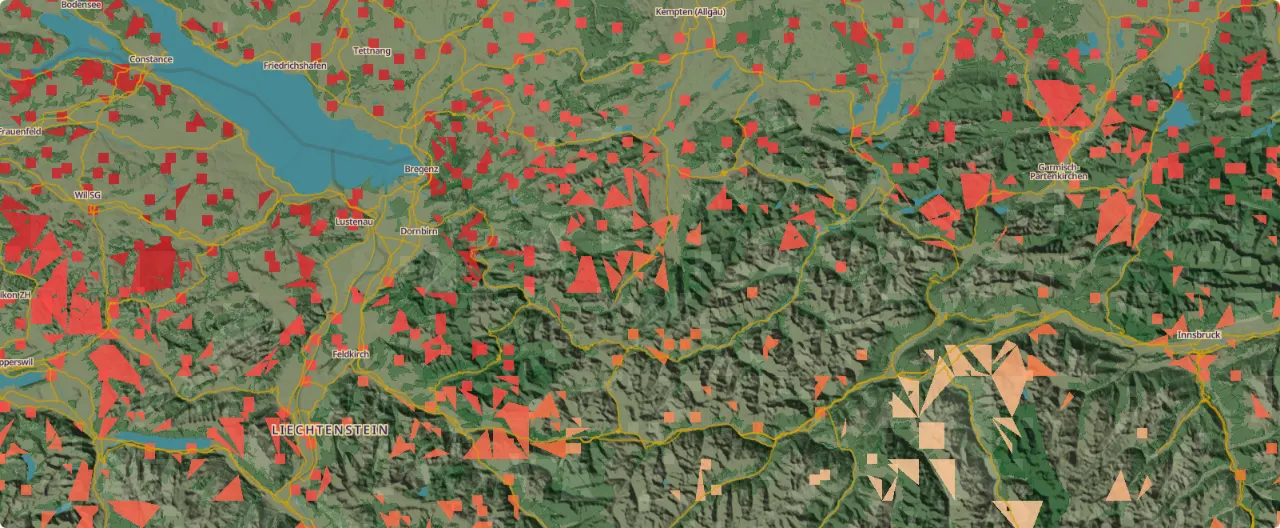
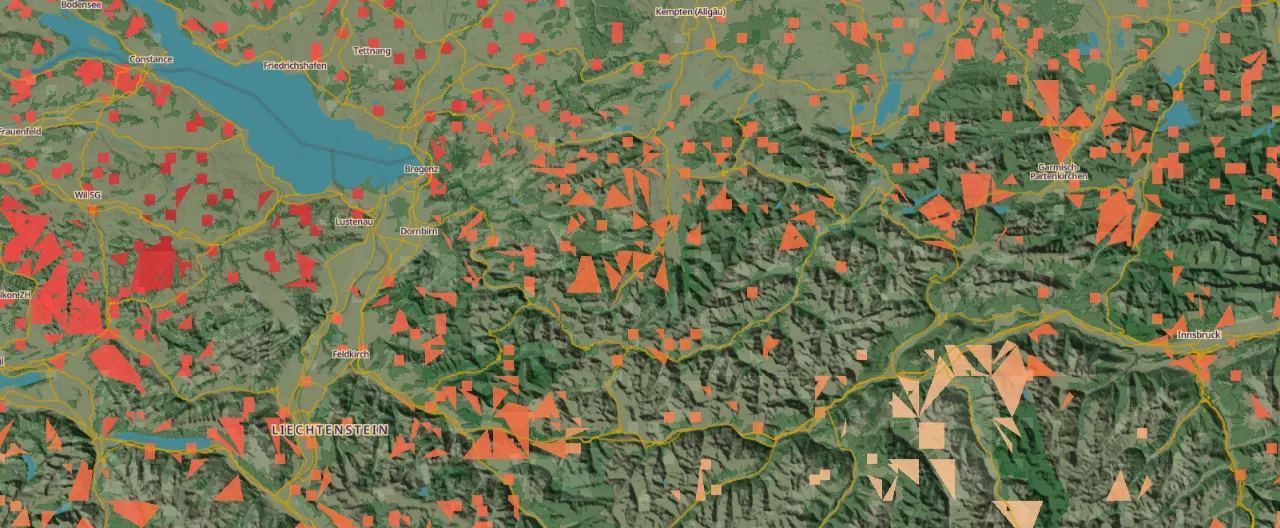
feat: refresh landing page foraging imagery

diff --git a/src/pages/LandingPage.tsx b/src/pages/LandingPage.tsx
@@ -46,7 +46,7 @@ export default function LandingPage() {
           </div>
           <img
             className={styles.heroPhoto}
-            src={`${base}landing/forest-floor.webp`}
+            src={`${base}landing/porcini-forest.webp`}
             alt=''
             width='960'
             height='1200'
@@ -70,7 +70,7 @@ export default function LandingPage() {
             <Link
               to='/map'
               search={{
-                species: 'hedgehog_mushroom',
+                species: 'pine_bolete',
                 lat: 47.38,
                 lng: 10.21,
                 zoom: 8.7,
@@ -133,7 +133,7 @@ export default function LandingPage() {
         <div className={styles.featureGrid}>
           <section className={styles.feature} aria-labelledby='identify-title'>
             <img
-              src={`${base}landing/forest-find.webp`}
+              src={`${base}landing/lingonberry-find.webp`}
               alt=''
               loading='lazy'
               width='768'

diff --git a/.impeccable/surfaces/src-pages-landingpage-tsx.md b/.impeccable/surfaces/src-pages-landingpage-tsx.md
@@ -7,13 +7,13 @@ related_targets: ['src/pages/LandingPage.module.scss']
 
 # Landing: a walk into the wild
 
-Status: implemented; finish-review disposition: ship. The latest reviewer approved the user-requested map replacement with no fixes. Natural spectacles, the prominent fall-foliage photograph and the app's established identity remain intact.
+Status: implemented. The landing photographs now show a candid porcino find in woodland leaf litter in the hero, a northern lingonberry patch in the identification section, and the retained chanterelle bruschetta in the cooking section. The Alps preview and its link use pine bolete. Natural spectacles, the prominent fall-foliage photograph and the app's established identity remain intact.
 
 ## Direction and composition
 
 The original localized `home.headline` leads the split hero: “Explore what grows around you” in English, without a terminal period. The shared Logo, forecast link, introductory copy and primary map Button accompany a rectangular woodland photograph. The established Space Grotesk, Public Sans, green palette and controls remain intact.
 
-A full deep-green forecast section pairs useful copy, regional coverage and its action with a captured map of Lake Constance, Liechtenstein and Innsbruck in the app's original olive style. The map links to `/map` with species `chant`, latitude 47.38, longitude 10.21 and zoom 8.38. Its map action is visible and OpenStreetMap / Mapzen / AWS attribution remains; no preview disclaimer is displayed. A natural-spectacle section follows with a prominent autumn-forest photograph, explanatory copy and a link to `/map?species=foliage`. Adjacent identification and cooking features each contain a photograph, heading, explanatory copy and link. Identification keeps the existing safety guidance visible. A closing map action completes the page. There is no feature-navigation strip, botanical arch, specimen selector or catalog illustration.
+A full deep-green forecast section pairs useful copy, regional coverage and its action with a captured map of Lake Constance, Liechtenstein and Innsbruck in the app's original olive style. The map links to `/map` with species `pine_bolete`, latitude 47.38, longitude 10.21 and zoom 8.7. Its map action is visible and OpenStreetMap / Mapzen / AWS attribution remains; no preview disclaimer is displayed. A natural-spectacle section follows with a prominent autumn-forest photograph, explanatory copy and a link to `/map?species=foliage`. Adjacent identification and cooking features each contain a photograph, heading, explanatory copy and link. Identification keeps the existing safety guidance visible. A closing map action completes the page. There is no feature-navigation strip, botanical arch, specimen selector or catalog illustration.
 
 ## Local visual extension
 
@@ -27,12 +27,12 @@ Home copy uses the common namespace in en, de, es, fr, it and pt. The introducti
 
 Four photorealistic marketing images were generated with OpenAI image_gen and encoded as WebP quality 75. They provide atmosphere rather than species-identification evidence or a current forecast:
 
-- `public/landing/forest-floor.webp` — 960×1200, woodland hero.
-- `public/landing/forest-find.webp` — 768×576, identification feature.
+- `public/landing/porcini-forest.webp` — 960×1200, reference-based porcino woodland hero with soil and leaf litter.
+- `public/landing/lingonberry-find.webp` — 768×576, reference-based northern lingonberry patch beside a pine trunk.
 - `public/landing/wild-mushroom-toast.webp` — 768×576, cooking feature.
-- `public/landing/autumn-forest.webp` — 1280×720, natural spectacles; 261084 bytes, atmospheric autumn woodland rather than a specific location.
+- `public/landing/autumn-forest.webp` — 1280×720, natural spectacles; reference-based autumn woodland with an uneven earth trail rather than a specific location.
 
-`public/landing/alps-map.webp` (1280×860, 232788 bytes) is an actual Fung.es MapLibre capture of Lake Constance, Liechtenstein and Innsbruck, centered at 10.21E, 47.38N, zoom 8.38 with the Golden Chanterelle overlay. Captured 2026-10-12 from the original olive `funges_style.json` style and `data.fung.es` tiles; no geography or scores were generated or altered. It is encoded as WebP quality 78. Each of these five assets has an adjacent `.webp.json` provenance sidecar; generated-image sidecars retain their prompts. Combined imagery is 755840 bytes, approximately 756KB. The superseded map asset was removed; all four photographic assets are unchanged.
+`public/landing/alps-map.webp` (1280×528) is an actual Fung.es MapLibre capture of Lake Constance, Liechtenstein and Innsbruck, centered at 10.21E, 47.38N, zoom 8.7 with the Pine Bolete overlay. Captured 2026-10-12 from the original olive `funges_style.json` style and `data.fung.es` tiles with the app's day-zero missing-score fallback; no geography or scores were generated or altered. It is encoded as WebP quality 78. Each of these five assets has an adjacent `.webp.json` provenance sidecar; generated-image sidecars retain their prompts. The two superseded chanterelle photos were removed. The porcino, lingonberry and autumn-trail replacements use the user's photographic references; the chanterelle bruschetta photo is retained.
 
 ## Review evidence
 
